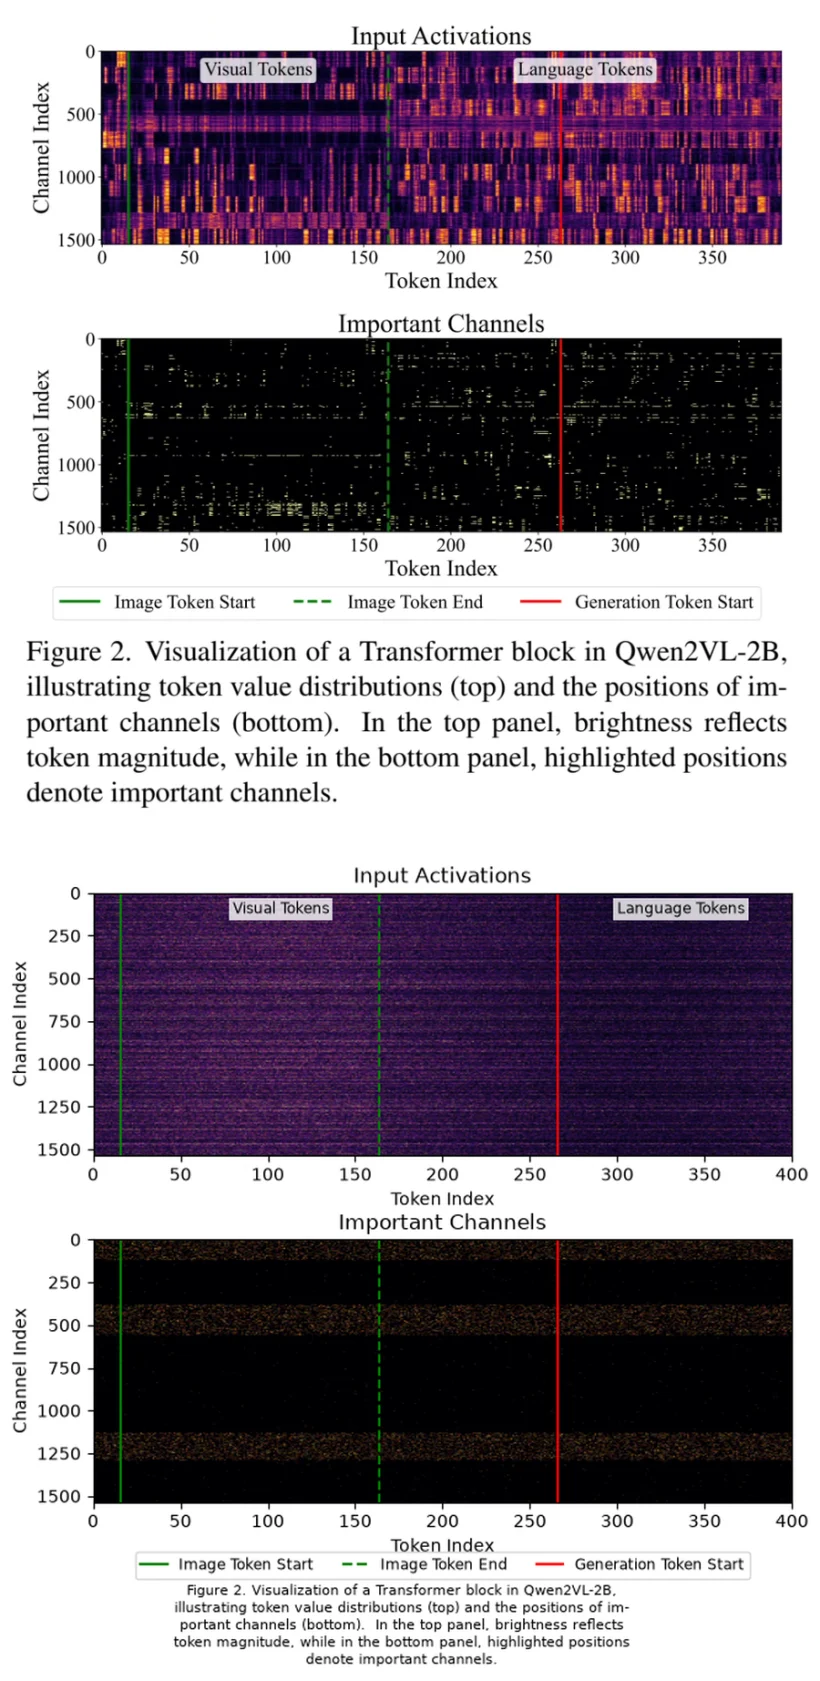
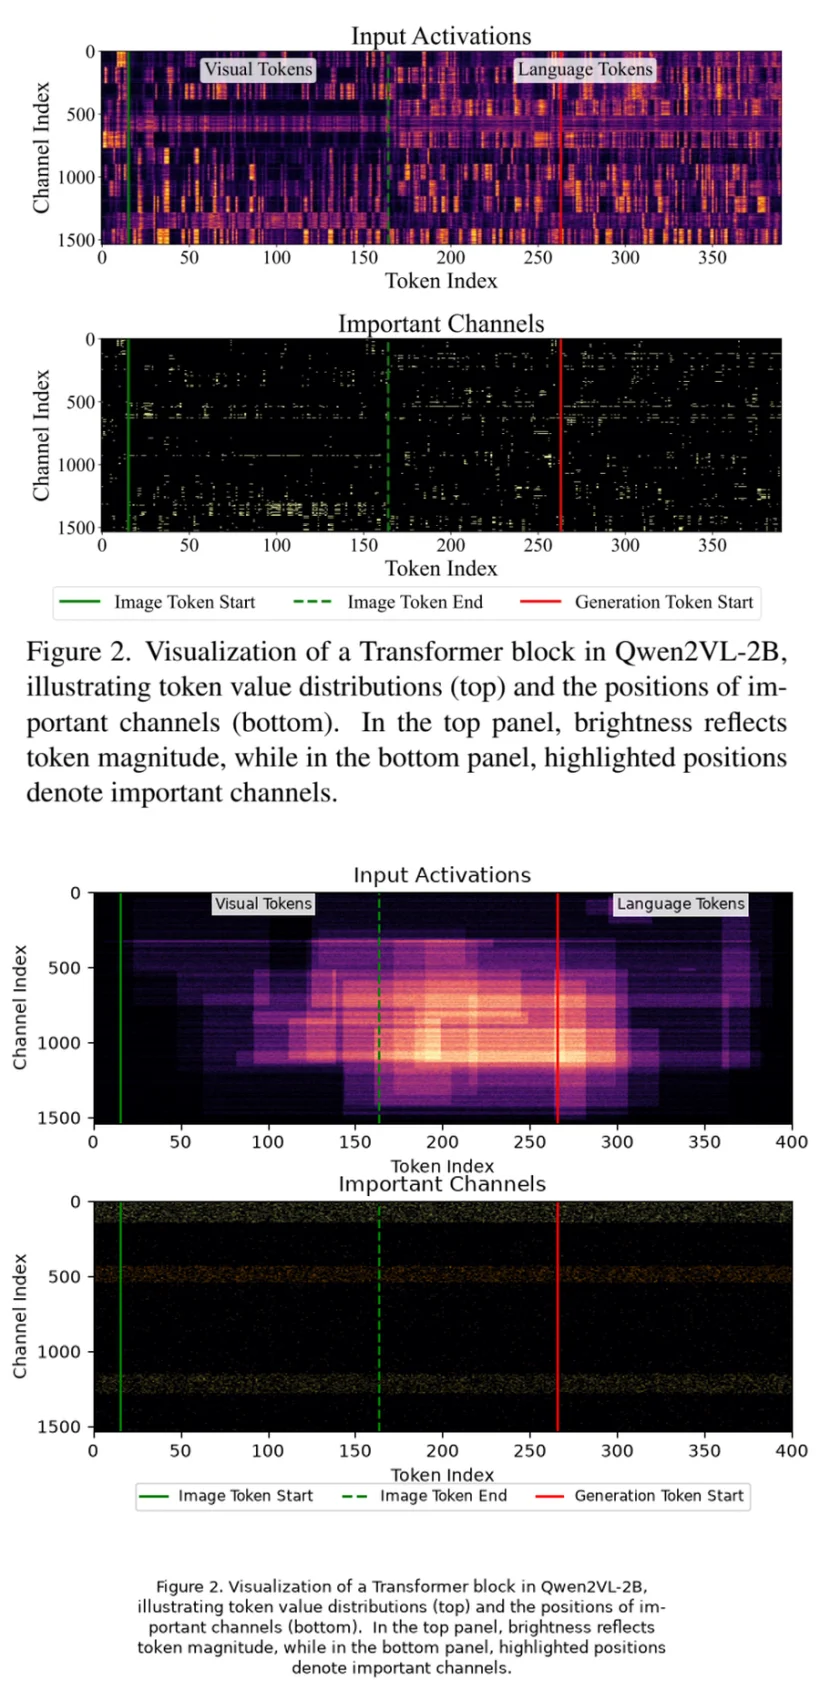
improve(replicas): 第五轮 —— 09 热图结构重做
- 上图改为 通道基准 × token 调制 再叠 26 个随机矩形块增强，形成原图那种块状局部相关结构
- 显示改用 log1p 归一化（真实激活可视化常用），动态范围从暗紫到亮橙黄
- 下图重要通道改为全宽密集亮点 + 3 个通道带强调，不再是孤立 3 条
- caption 与图例间距修正，AR 精确对齐到 0.98

diff --git a/tools/figlab/replicas.py b/tools/figlab/replicas.py
@@ -523,51 +523,58 @@ def fig08():
 
 def fig09():
     rng = np.random.default_rng(12)
-    fig, axes = plt.subplots(2, 1, figsize=(6.6, 6.6))
-    n_tok, n_ch = 400, 1536
+    fig, axes = plt.subplots(2, 1, figsize=(6.6, 6.17))
+    n_ch, n_tok = 1536, 400
 
-    # (上) 输入激活：真实激活的行向结构 =
-    #   每通道一个基准强度(对数正态) × 每 token 的调制 × 轻微噪声
-    ch_base = rng.lognormal(0.0, 0.55, n_ch)          # 通道间差异（行向条纹来源）
-    tok_mod = 1.0 + 0.25 * np.sin(np.linspace(0, 6.0, n_tok))   # token 方向的缓慢起伏
-    act = ch_base[:, None] * tok_mod[None, :]
-    act *= rng.gamma(2.2, 0.30, (n_ch, n_tok))        # 非负乘性噪声，形成斑驳质感
-    # 少数 outlier 通道整体更亮（真实模型里常见）
-    out_ch = rng.choice(n_ch, 40, replace=False)
-    act[out_ch, :] *= rng.uniform(2.0, 4.0, (40, 1))
-    # 图像 token / 语言 token 两段有轻微差异
-    act[:, :164] *= 1.08
-    act[:, 266:] *= 0.96
+    # (上) 输入激活：通道基准 × token 调制，再叠"块状"增强（真实激活的局部相关结构）
+    ch_base = rng.lognormal(0.0, 0.75, n_ch)
+    act = ch_base[:, None] * np.ones((1, n_tok))
+    # 竖向块：随机 (通道段 × token 段) 的矩形增强
+    for _ in range(26):
+        c0, c1 = sorted(rng.choice(n_ch, 2, replace=False))
+        t0, t1 = sorted(rng.choice(n_tok, 2, replace=False))
+        c1 = min(n_ch, c0 + max(8, c1 - c0))
+        t1 = min(n_tok, t0 + max(4, t1 - t0))
+        act[c0:c1, t0:t1] *= rng.uniform(1.8, 4.5)
+    # 散点噪声
+    act *= rng.gamma(3.0, 0.24, (n_ch, n_tok))
+    # 少数 outlier 通道整体更亮
+    out_ch = rng.choice(n_ch, 60, replace=False)
+    act[out_ch, :] *= rng.uniform(2.0, 5.0, (60, 1))
+    # 图像/语言两段的整体差异
+    act[:, :164] *= 1.15
+    act[:, 266:] *= 0.9
+
     ax = axes[0]
-    ax.imshow(act, aspect="auto", cmap="magma", origin="upper",
+    act_disp = np.log1p(act)          # 真实激活图常用 log 归一化
+    ax.imshow(act_disp, aspect="auto", cmap="magma", origin="upper",
               extent=[0, n_tok, n_ch, 0],
-              vmin=np.percentile(act, 5), vmax=np.percentile(act, 99.0))
+              vmin=np.percentile(act_disp, 35), vmax=np.percentile(act_disp, 99.5))
     ax.set_title("Input Activations", fontsize=12)
     ax.set_ylabel("Channel Index", fontsize=10)
     ax.set_xlabel("Token Index", fontsize=10)
-    ax.text(80, 120, "Visual Tokens", fontsize=8.5, color="k",
-            bbox=dict(fc="white", ec="none", alpha=0.8, pad=2))
-    ax.text(300, 120, "Language Tokens", fontsize=8.5, color="k",
-            bbox=dict(fc="white", ec="none", alpha=0.8, pad=2))
+    ax.text(70, 110, "Visual Tokens", fontsize=8.5, color="k",
+            bbox=dict(fc="white", ec="none", alpha=0.85, pad=2))
+    ax.text(300, 110, "Language Tokens", fontsize=8.5, color="k",
+            bbox=dict(fc="white", ec="none", alpha=0.85, pad=2))
     for xv, c, ls in [(16, "green", "-"), (164, "green", "--"), (266, "red", "-")]:
         ax.axvline(xv, color=c, ls=ls, lw=1.4)
 
-    # (下) 重要通道：黑底 + 按"通道带"聚集的亮点（真实模型里重要通道很少且成簇）
+    # (下) 重要通道：密集亮点 + 通道带聚集（原图是横贯全宽的亮条纹）
     imp = np.zeros((n_ch, n_tok))
-    # 3 个活跃通道带（与上图的高亮带对应）
-    bands = [(0, 120), (380, 560), (1130, 1290)]
-    for lo, hi in bands:
-        band = imp[lo:hi, :]
-        dens = rng.uniform(0.06, 0.16, hi - lo)
-        hit = rng.random(band.shape) < dens[:, None]
-        band[hit] = rng.uniform(0.35, 0.95, hit.sum())
-        imp[lo:hi, :] = band
-    # 带外零散点
-    out_hit = rng.random((n_ch, n_tok)) < 0.0012
-    imp[out_hit] = rng.uniform(0.3, 0.8, out_hit.sum())
+    base_dens = rng.beta(0.45, 9, n_ch) * 0.10      # 每通道基础密度
+    for ci in range(n_ch):
+        if base_dens[ci] > 0.004:
+            cols = rng.random(n_tok) < base_dens[ci]
+            imp[ci, cols] = rng.uniform(0.35, 0.95, cols.sum())
+    # 强调通道带（对应上图高亮区）
+    for lo, hi in [(0, 140), (430, 540), (1150, 1280)]:
+        band = rng.random((hi - lo, n_tok)) < rng.uniform(0.05, 0.12)
+        imp[lo:hi, :] = np.maximum(imp[lo:hi, :], band * rng.uniform(0.5, 1.0))
+
     ax = axes[1]
     ax.imshow(imp, aspect="auto", cmap="inferno", origin="upper",
-              extent=[0, n_tok, n_ch, 0], vmin=0, vmax=0.9)
+              extent=[0, n_tok, n_ch, 0], vmin=0, vmax=0.95)
     ax.set_title("Important Channels", fontsize=12)
     ax.set_ylabel("Channel Index", fontsize=10)
     ax.set_xlabel("Token Index", fontsize=10)
@@ -577,20 +584,18 @@ def fig09():
     handles = [Line2D([], [], color="green", lw=1.6, label="Image Token Start"),
                Line2D([], [], color="green", lw=1.6, ls="--", label="Image Token End"),
                Line2D([], [], color="red", lw=1.6, label="Generation Token Start")]
-    ax.legend(handles=handles, loc="upper center", bbox_to_anchor=(0.5, -0.16),
+    ax.legend(handles=handles, loc="upper center", bbox_to_anchor=(0.5, -0.19),
               ncol=3, frameon=True, fontsize=8.5, handlelength=1.8)
-    fig.text(0.5, -0.005,
+    fig.text(0.5, -0.085,
              "Figure 2. Visualization of a Transformer block in Qwen2VL-2B,\n"
              "illustrating token value distributions (top) and the positions of im-\n"
              "portant channels (bottom).  In the top panel, brightness reflects\n"
              "token magnitude, while in the bottom panel, highlighted positions\n"
              "denote important channels.",
-             ha="center", va="bottom", fontsize=8.2)
-    fig.subplots_adjust(top=0.95, bottom=0.20, left=0.12, right=0.98, hspace=0.32)
+             ha="center", va="bottom", fontsize=9.0)
+    fig.subplots_adjust(top=0.95, bottom=0.24, left=0.12, right=0.98, hspace=0.34)
     return _save(fig, "rep-09-activation-heatmap")
 
-
-# ---------------------------------------------------------------- 10 频率衰减 + 异常值
 
 def fig10():
     rng = np.random.default_rng(3)
